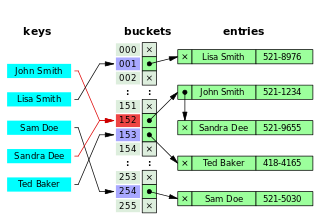
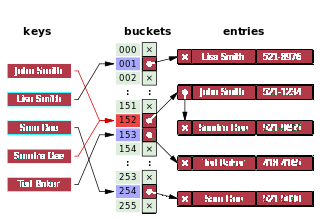
Improve: HashTableImage

diff --git a/src/containers/Home/Home.tsx b/src/containers/Home/Home.tsx
@@ -9,7 +9,7 @@ import LinkedListImage from '../../images/LinkedListImage.png';
 import StackImage from '../../images/StackImage.png';
 import QueueImage from '../../images/QueueImage.png';
 import HeapImage from '../../images/HeapImage.png';
-import HashTableImage from '../../images/HashTableImage2.png';
+import HashTableImage from '../../images/HashTableImage.png';
 import GraphImage from '../../images/GraphImage.png';
 import QuicksortGif from '../../images/QuicksortGif.gif';
 
